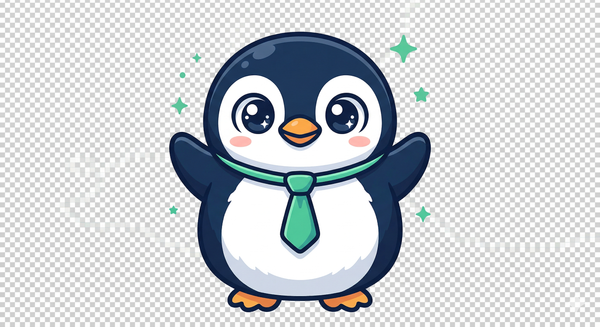
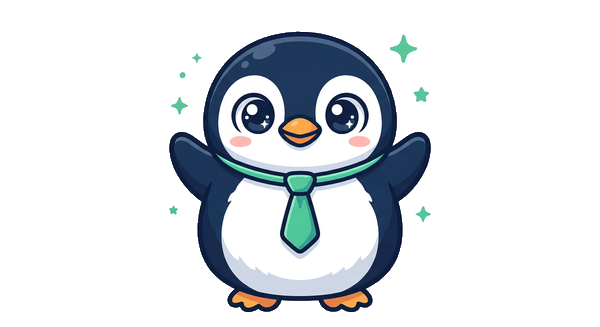
Fix kareo.png background (flood fill removal) and enlarge LP mascot

diff --git a/src/components/landing/LandingPage.tsx b/src/components/landing/LandingPage.tsx
@@ -745,7 +745,7 @@ export function LandingPage({ recentPosts = [], userCount = 0, reviews = [] }: {
               <img
                 src="/kareo.png"
                 alt="カレオ"
-                className="relative w-72 xl:w-80 h-auto drop-shadow-2xl"
+                className="relative w-80 xl:w-[400px] h-auto drop-shadow-2xl"
               />
               {/* Speech bubble */}
               <div className="relative -mt-4 bg-white border border-[#00c896]/25 rounded-2xl rounded-tl-none px-5 py-3 shadow-lg max-w-xs">
